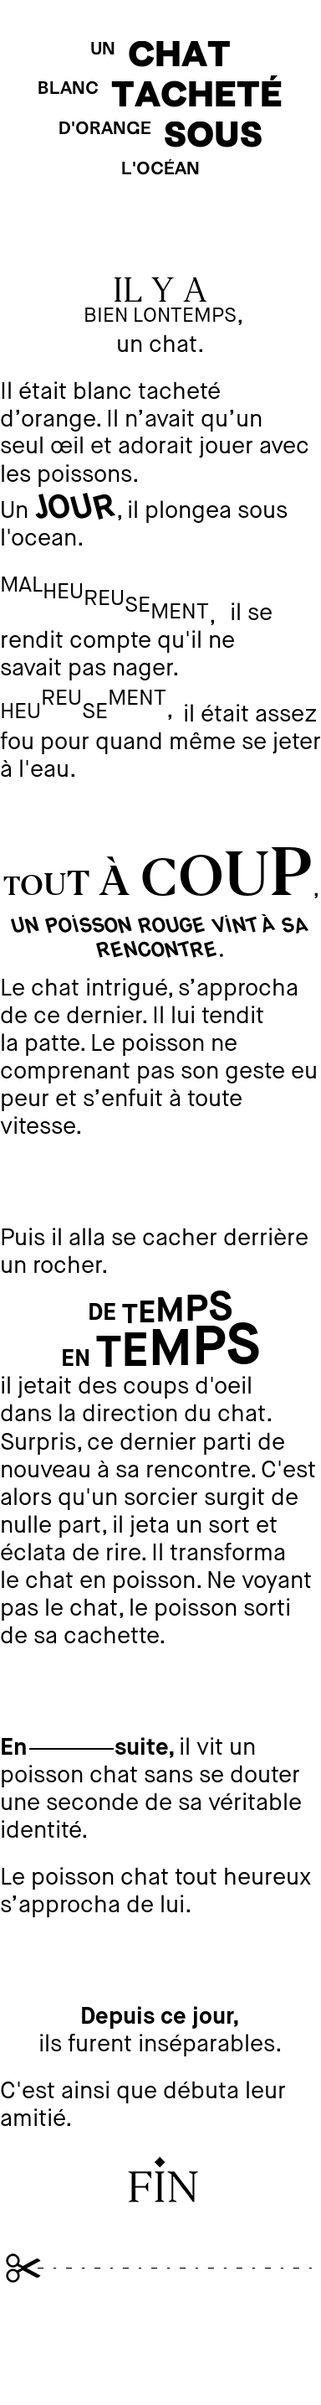
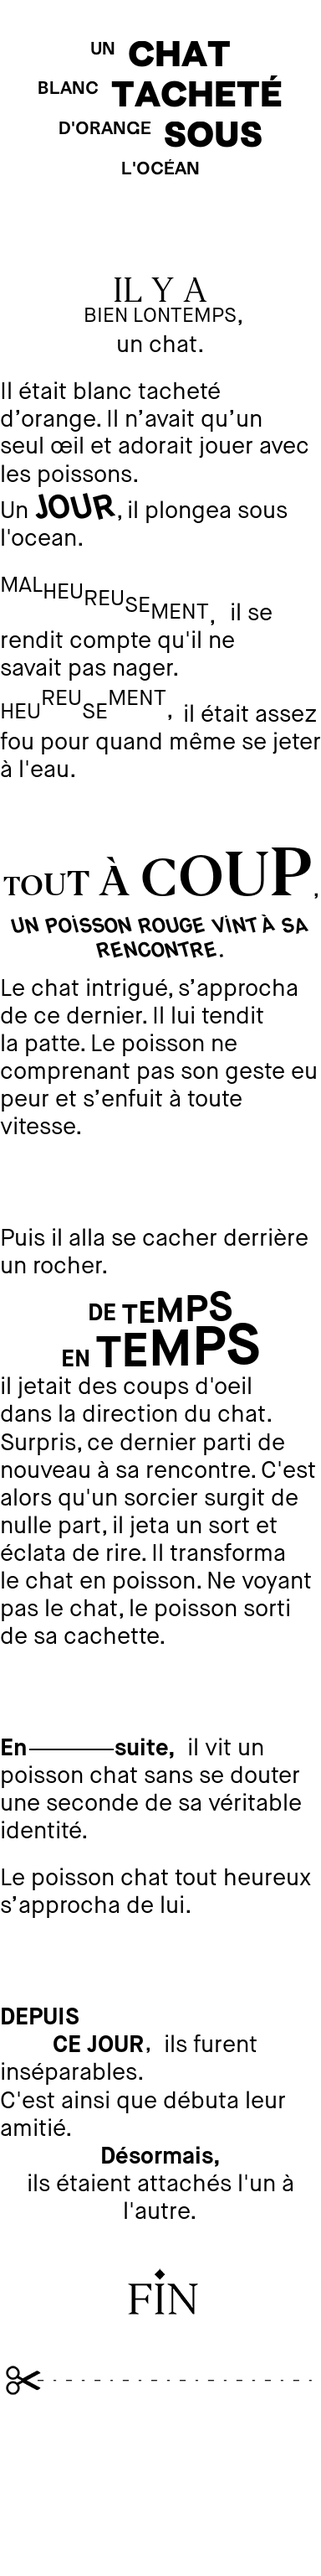
feat(story) : add 'Depuis ce jour' effect

diff --git a/storydesign.py b/storydesign.py
@@ -24,7 +24,7 @@ class StoryDesign():
          self.font_size = 28
          self.text_color = "#000"
          self.custom_words = [
-            "Il était une fois", "Il y a bien longtemps",
+            "Il était une fois", "Il y a bien longtemps", "Il fut un temps",
             "Un matin",
             "Soudain", "Tout à coup", "Brusquement", "Subitement",
             "Le lendemain",
@@ -34,9 +34,8 @@ class StoryDesign():
             "Peu après",
             "De temps en temps",
             "Heureusement", "Malheureusement",
-            "Et c'est ainsi", "Depuis ce jour",
-            "Un jour",
-            "Désormais"]
+            "Et c'est ainsi", "Depuis ce jour", "Désormais",
+            "Un jour"]
          self.imposed_events = [
              "C'est alors que des météorites tombèrent du ciel.",
              "C'est alors qu'une tornade effroyable éclata.",
@@ -171,6 +170,10 @@ class StoryDesign():
 
                     top += height
                     
+                elif start_sentence == "Depuis ce jour":
+                    height = effects.since(self.width, start_sentence, maison_neue_bold, self.font_size, spacing, self.text_color, top, context)
+                    top += height
+                    
 ##                    elif start_sentence == "Puis":
 ##                        # create fonction to load img
 ##                        img_height = effects.add_image("assets/img/mountains.jpg", True, top, img)
@@ -213,10 +216,9 @@ class StoryDesign():
 			left = effects.word_in_sentence(self.width, start_sentence, maison_neue_book, self.font_size, maison_neue_rotate, self.font_size + 25, self.text_color, top, False)
 			top = effects.paragraph_after_effect(first_sentence, 20, left, top + 10, spacing, self.text_color, text_maison_neue_book, context, True)
 			break
-			
 		    elif start_sentence == "Ensuite":
 			left = effects.line_between(self.width, start_sentence, maison_neue_bold, self.font_size, spacing, self.text_color, top, False)
-			top = effects.paragraph_after_effect(first_sentence, 15, left, top, spacing, self.text_color, text_maison_neue_book, context)
+			top = effects.paragraph_after_effect(first_sentence, 15, left + 10, top, spacing, self.text_color, text_maison_neue_book, context)
 			break
 		    elif start_sentence == "Puis":
                         word_width, word_height = text_maison_neue_book.getsize(start_sentence + " ") # get text width
@@ -232,6 +234,10 @@ class StoryDesign():
 		    elif start_sentence == "Heureusement":
                         word_width, word_height = text_maison_neue_book.getsize(start_sentence.upper() + ",") # get text width
 			top = effects.paragraph_after_effect(first_sentence, 15, word_width, top + spacing, spacing, self.text_color, text_maison_neue_book, context) - 2 * spacing / 3
+			break
+                    elif start_sentence == "Depuis ce jour":
+                        word_width, word_height = text_maison_neue_bold.getsize(start_sentence.upper()) # get text width
+			top = effects.paragraph_after_effect(first_sentence, 10, word_width - 15, top - spacing, spacing, self.text_color, text_maison_neue_book, context) - 2 * spacing / 3
 			break
 		    else:    
 			line_width, line_height = text_maison_neue_book.getsize(first_story_line) # get text width
@@ -260,6 +266,8 @@ class StoryDesign():
         
         del context # destroy drawing context
         img.save(self.filename + self.fileformat, "PNG")
+        
+        #img.rotate(180).save(self.filename + self.fileformat, "PNG")
         
         
     def get_part_custom_words (self, story_parts, num_part):

diff --git a/webserver.py b/webserver.py
@@ -70,7 +70,7 @@ def run(server_class=HTTPServer, handler_class=Server):
         filename = paper.filename
         fileformat = paper.fileformat
         title = "Un chat blanc tacheté d'orange sous l'océan"
-        story = "Il y a bien longtemps, un chat. Il était blanc tacheté d’orange. Il n’avait qu’un seul œil et adorait jouer avec les poissons. Un jour, il plongea sous l'ocean. Malheureusement, il se rendit compte qu'il ne savait pas nager. Heureusement, il était assez fou pour quand même se jeter à l'eau.@Tout à coup, un poisson rouge vint à sa rencontre. Le chat intrigué, s’approcha de ce dernier. Il lui tendit la patte. Le poisson ne comprenant pas son geste eu peur et s’enfuit à toute vitesse.@Puis, il alla se cacher derrière un rocher. De temps en temps, il jetait des coups d'oeil dans la direction du chat. Surpris, ce dernier parti de nouveau à sa rencontre. C'est alors qu'un sorcier surgit de nulle part, il jeta un sort et éclata de rire. Il transforma le chat en poisson. Ne voyant pas le chat, le poisson sorti de sa cachette.@Ensuite, il vit un poisson chat sans se douter une seconde de sa véritable identité. Le poisson chat tout heureux s’approcha de lui.@Depuis ce jour, ils furent inséparables. C'est ainsi que débuta leur amitié."    
+        story = "Il y a bien longtemps, un chat. Il était blanc tacheté d’orange. Il n’avait qu’un seul œil et adorait jouer avec les poissons. Un jour, il plongea sous l'ocean. Malheureusement, il se rendit compte qu'il ne savait pas nager. Heureusement, il était assez fou pour quand même se jeter à l'eau.@Tout à coup, un poisson rouge vint à sa rencontre. Le chat intrigué, s’approcha de ce dernier. Il lui tendit la patte. Le poisson ne comprenant pas son geste eu peur et s’enfuit à toute vitesse.@Puis, il alla se cacher derrière un rocher. De temps en temps, il jetait des coups d'oeil dans la direction du chat. Surpris, ce dernier parti de nouveau à sa rencontre. C'est alors qu'un sorcier surgit de nulle part, il jeta un sort et éclata de rire. Il transforma le chat en poisson. Ne voyant pas le chat, le poisson sorti de sa cachette.@Ensuite, il vit un poisson chat sans se douter une seconde de sa véritable identité. Le poisson chat tout heureux s’approcha de lui.@Depuis ce jour, ils furent inséparables. C'est ainsi que débuta leur amitié. Désormais, ils étaient attachés l'un à l'autre."    
         paper.text_in_img(unicode(title, 'UTF8'), unicode(story, 'UTF8'))
         #os.system('lpr ' + filename + fileformat + '')
         #print story

diff --git a/effects.py b/effects.py
@@ -68,7 +68,10 @@ def get_img_height(custom_words, title, story_parts, width, onceupon_effect, top
             elif start_sentence == "De temps en temps":
                 height = increase_decrease(width, start_sentence, maison_neue_bold, 28, spacing, "#000", top, 2)[2]
                 font_effects_height += height
-                
+            
+            elif start_sentence == "Depuis ce jour":
+                height = since(width, start_sentence, maison_neue_bold, 28, spacing, "#000", top)
+                font_effects_height += height
                     
 ##                # get the images height for drawImage
 ##                if start_sentence == "Puis":
@@ -470,6 +473,34 @@ def get_font_size_syllables(width, syllables, font, font_size):
             left = 0
             
     return target_font_size
+
+
+def since(width, expression, font, font_size, spacing, text_color, top, context = False):
+    effect_top = top
+    height = 0
+    text_font = ImageFont.truetype(font, font_size, encoding="unic")
+    
+    if expression == "Depuis ce jour":
+        words = expression.split(" ", 1)
+        first_part = words[0].upper()
+        second_part = words[1].upper()
+        
+        first_part_width, first_part_height = text_font.getsize(first_part)
+        if context : context.text((0, effect_top), first_part , fill=text_color, font=text_font)
+        effect_top += spacing
+        
+        left = 2 * first_part_width / 3
+        second_part_width, second_part_height = text_font.getsize(first_part)
+        if context : context.text((left, effect_top), second_part , fill=text_color, font=text_font)
+        
+        # add comma
+        text_maison_neue_book = ImageFont.truetype(maison_neue_book, 28, encoding="unic")
+        comma_left = left + second_part_width + 15
+        if context : context.text((comma_left, effect_top - 2), ', ', fill=text_color, font=text_maison_neue_book)
+        
+        height = 2 * spacing
+    return height
+    
 
 def add_image(url, add, top = 0, img_bg = False):
     custom_img = Image.open(url)
